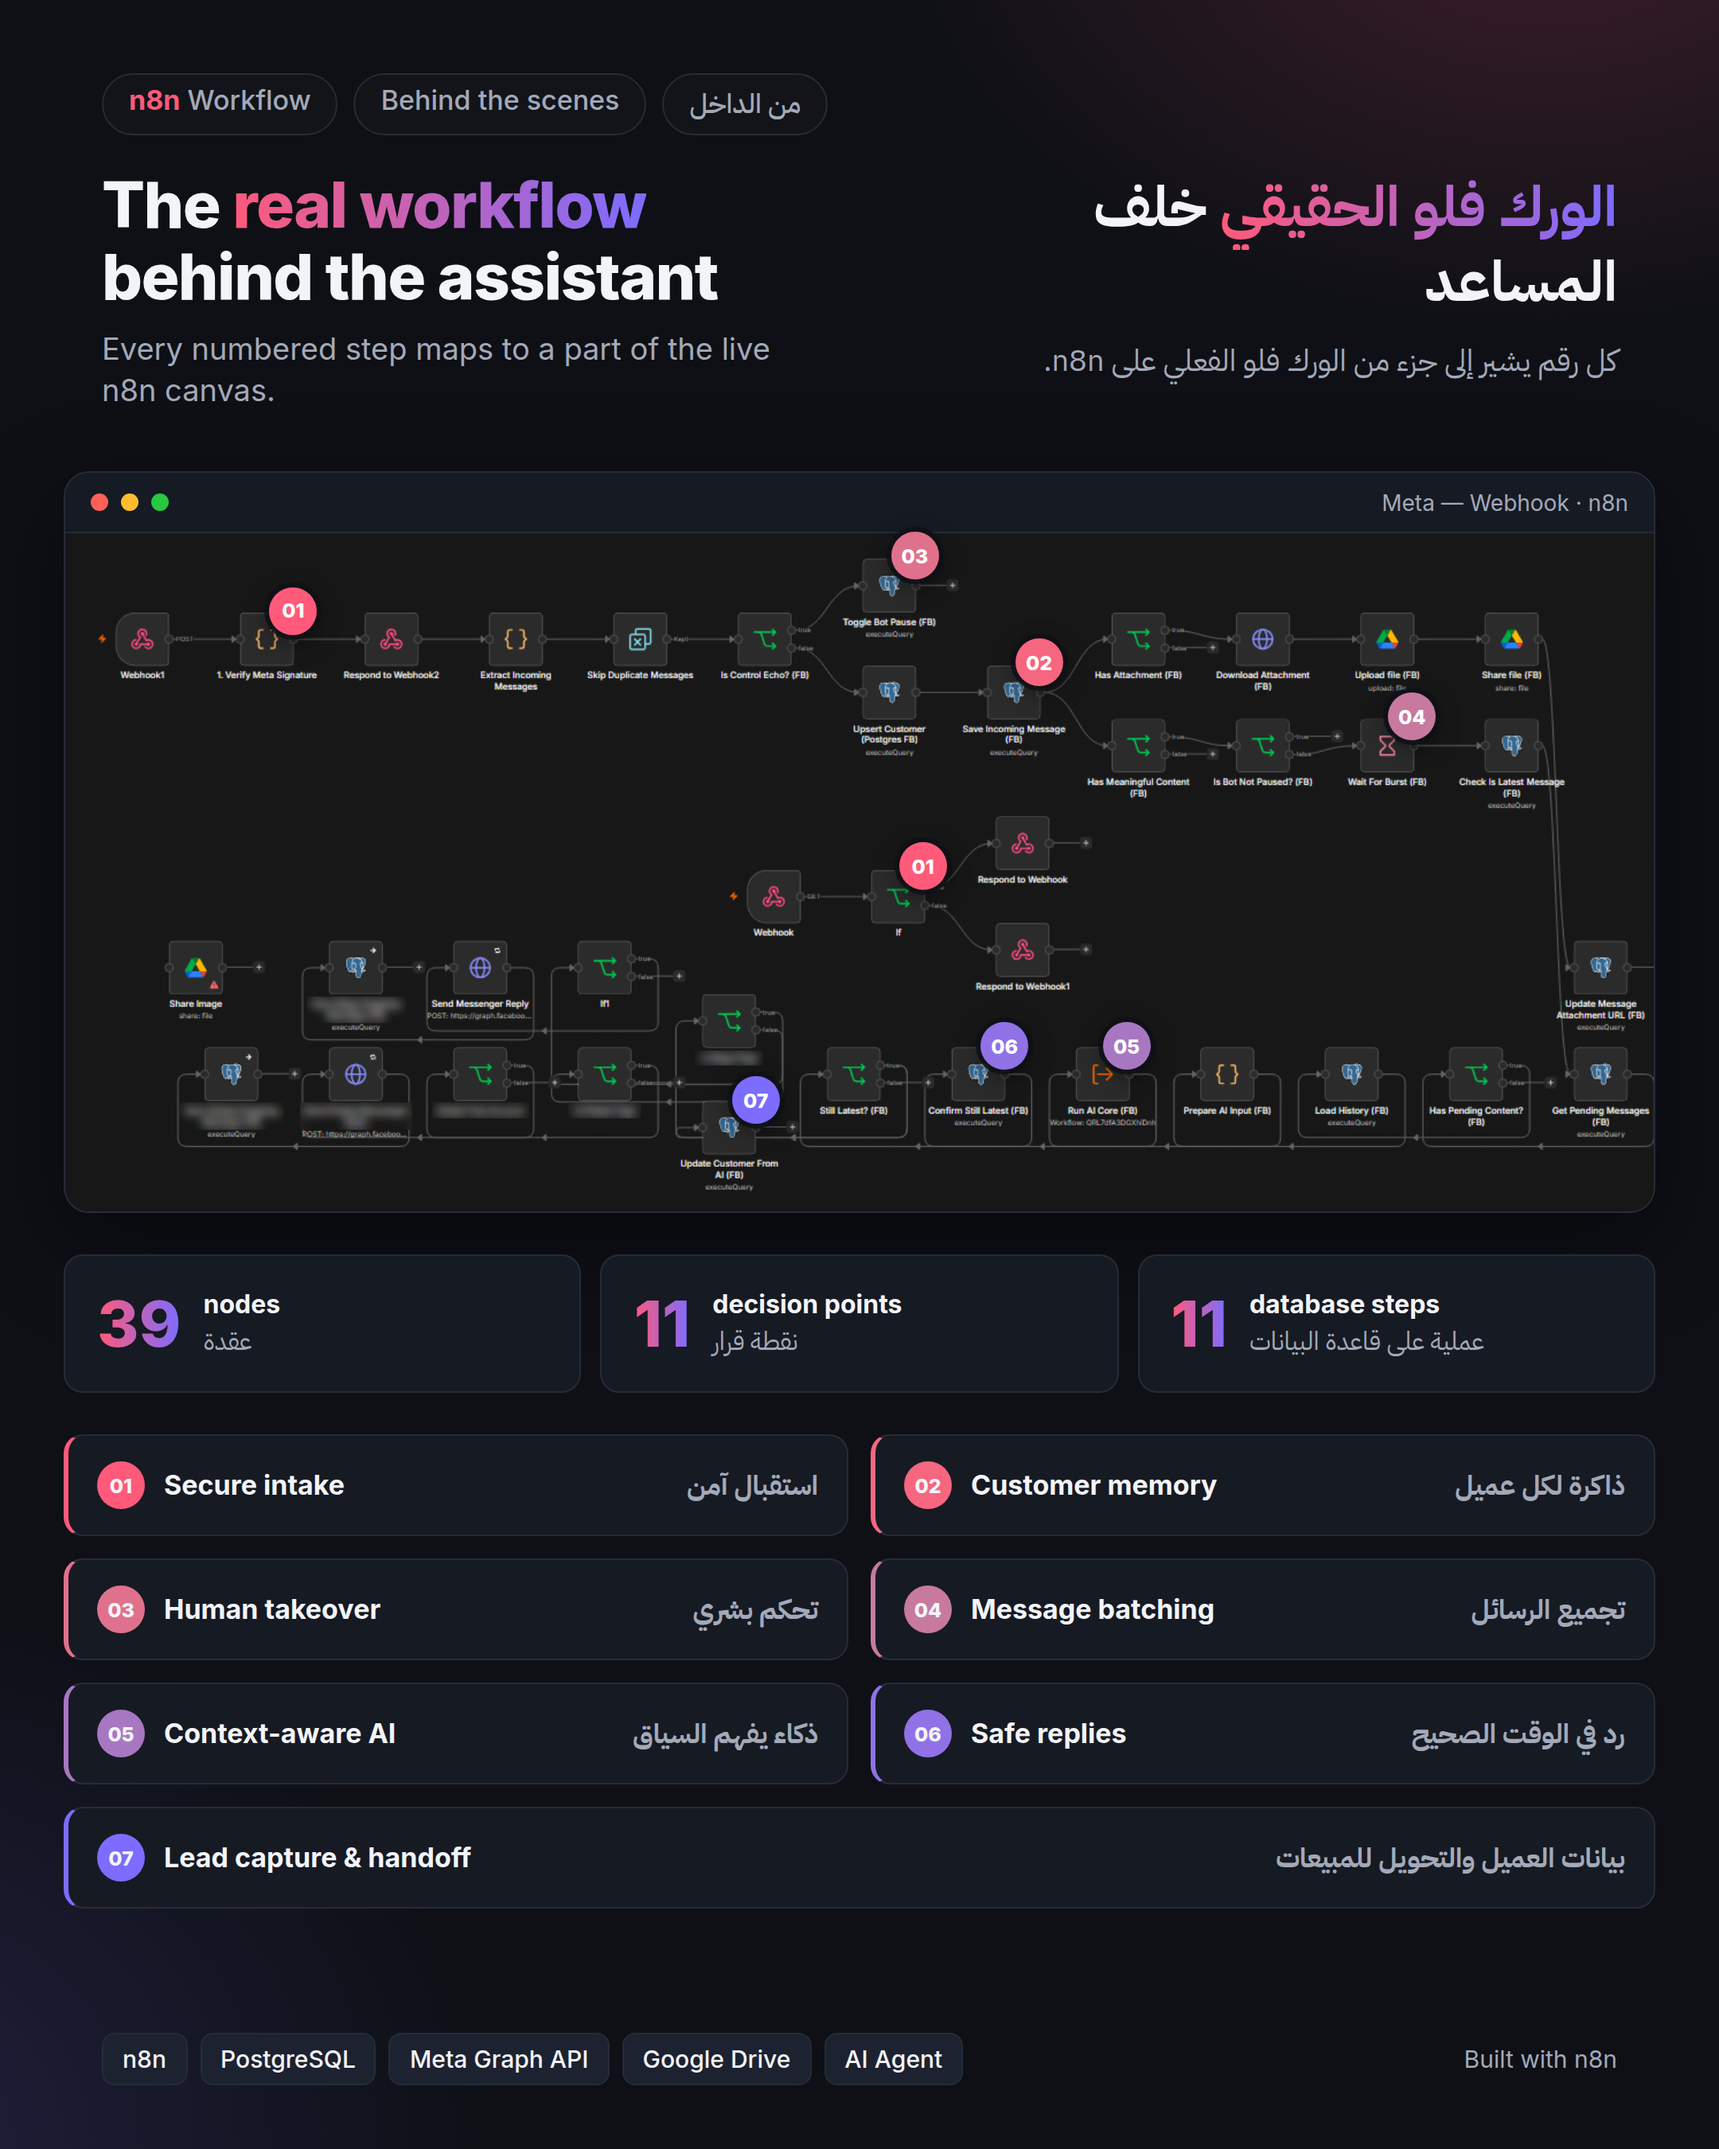
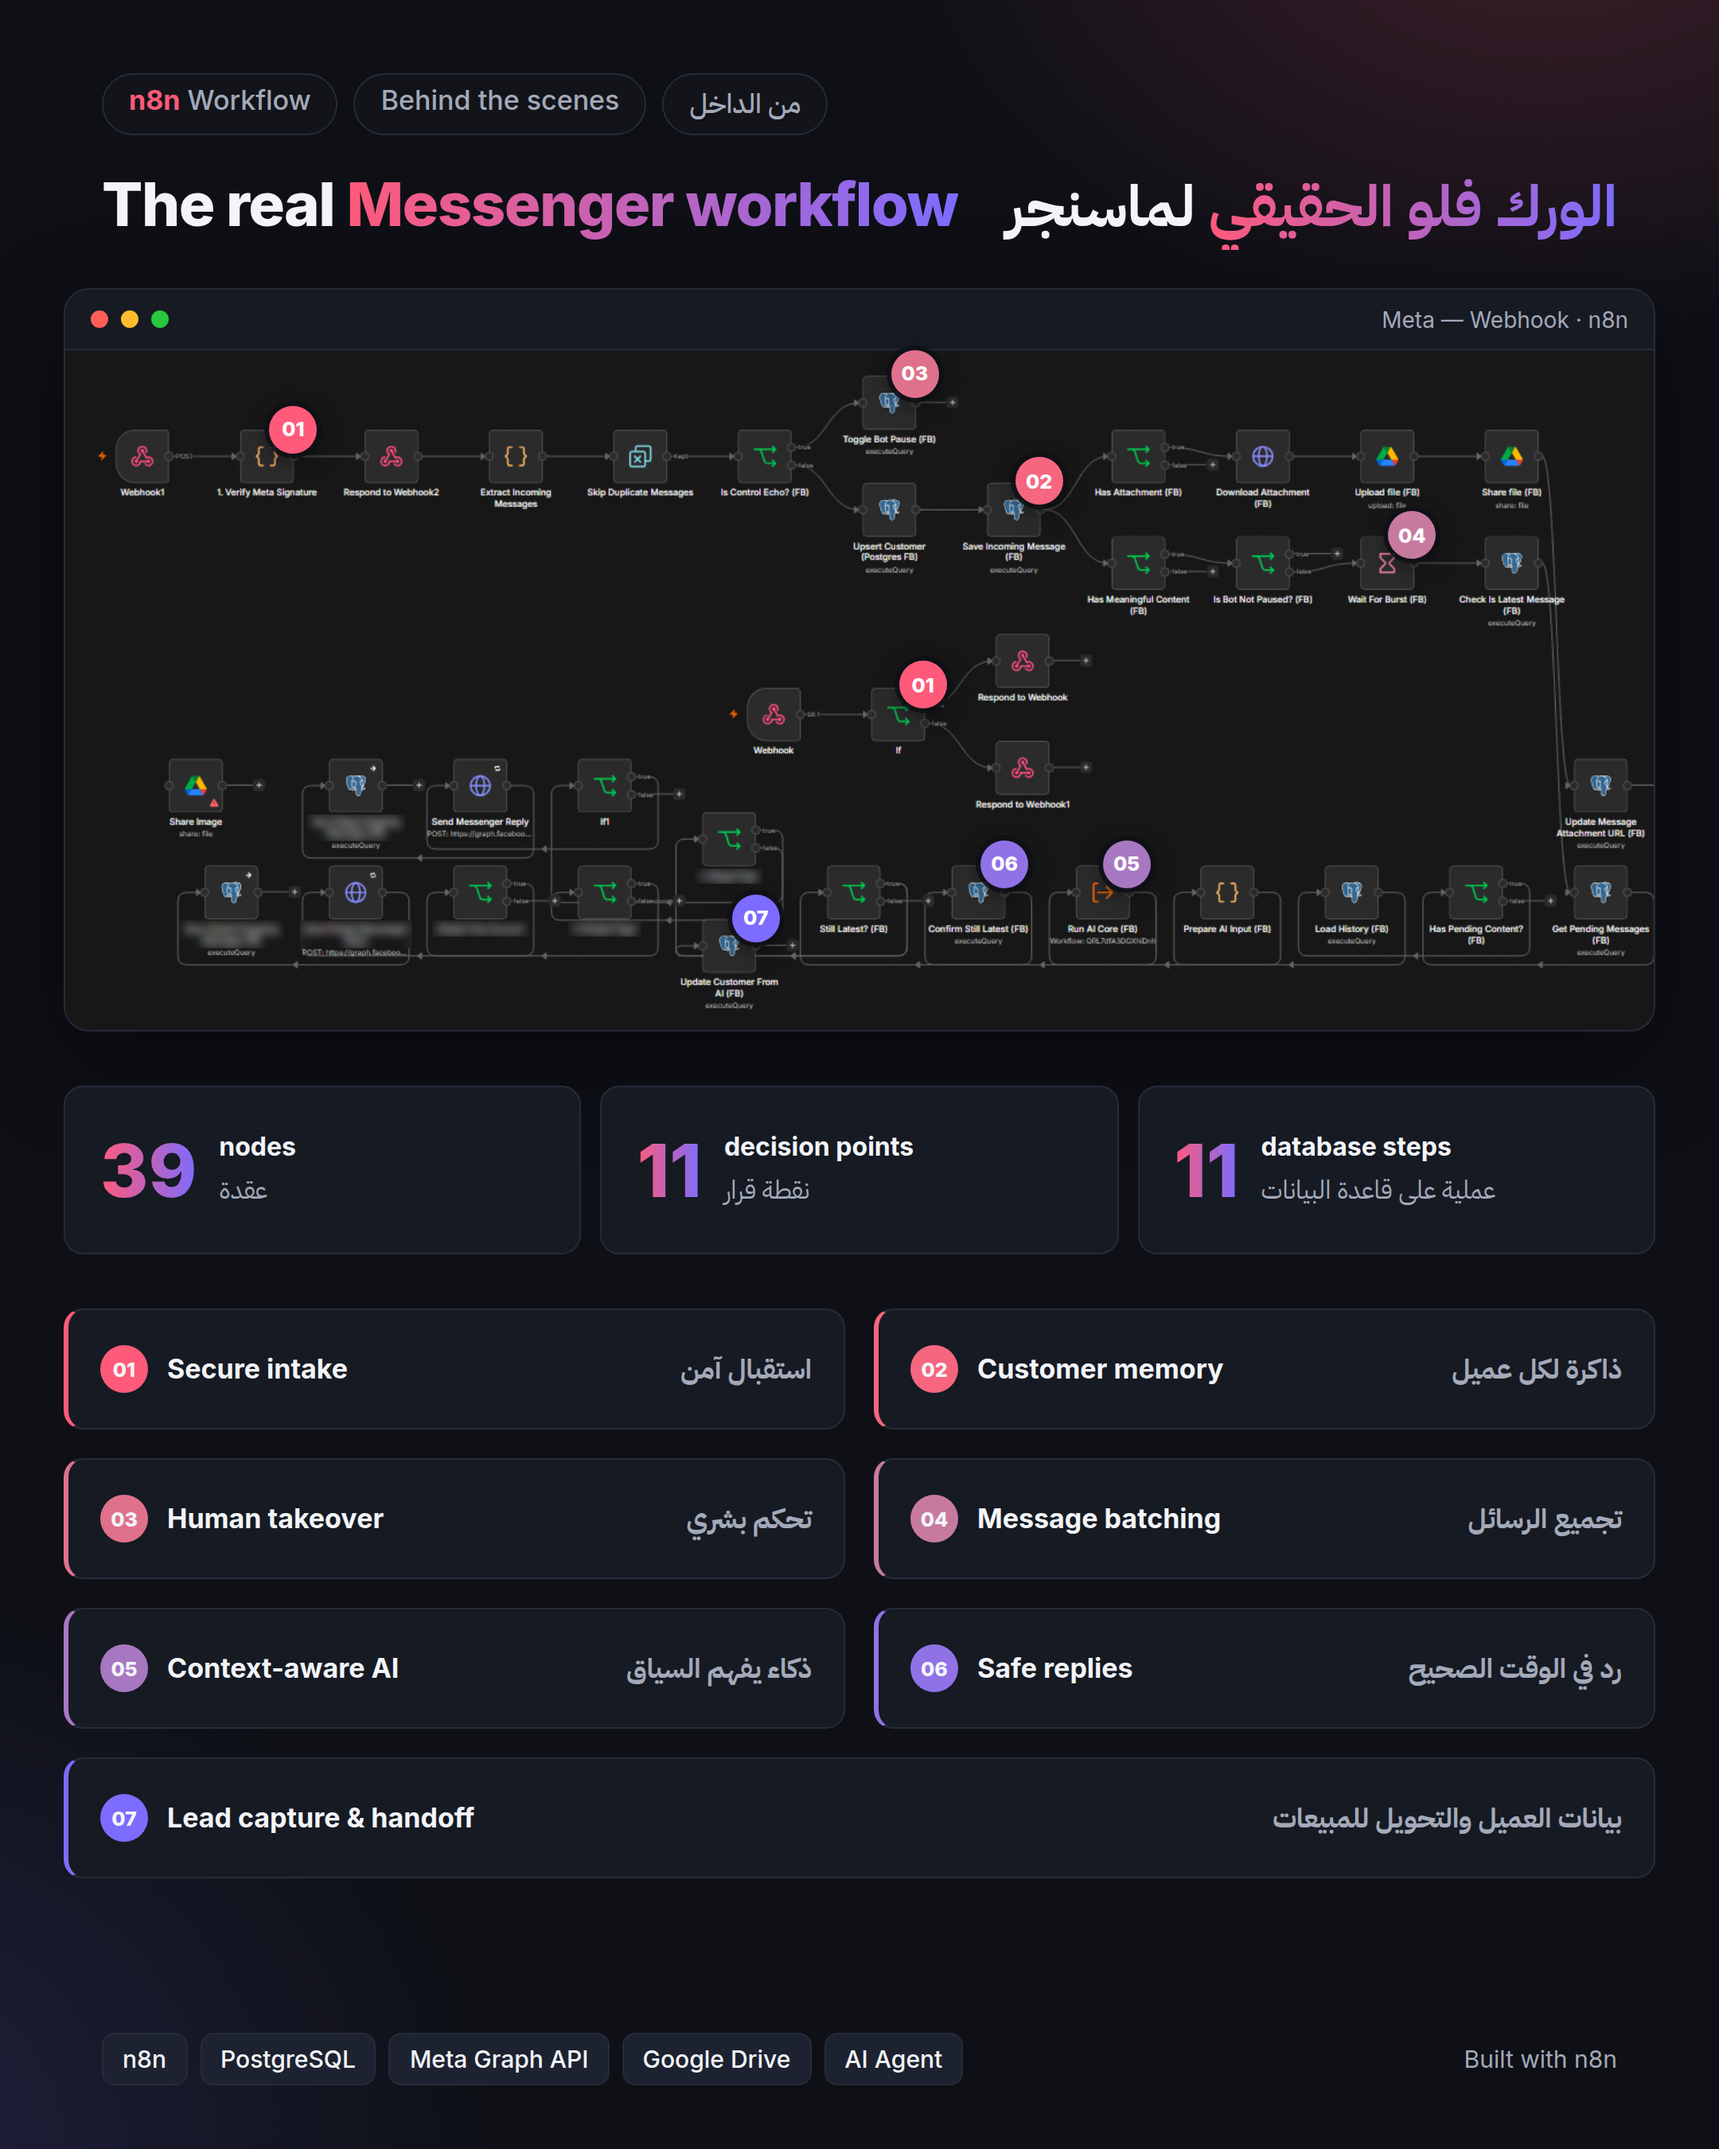
Match Messenger workflow image header to the Instagram layout
Claude-Session: https://claude.ai/code/session_012vB3nHyRhBYPVNiM4aM916

diff --git a/linkedin/workflow-real.html b/linkedin/workflow-real.html
@@ -9,26 +9,26 @@ body{width:1080px;height:1350px;overflow:hidden;background:var(--bg);color:var(-
 .chips{display:flex;gap:10px}
 .chip{font-size:17px;font-weight:500;color:var(--muted);border:1px solid var(--line);border-radius:999px;padding:6px 16px;background:rgba(255,255,255,.02)}
 .chip b{color:var(--accent);font-weight:700}
-.head{display:grid;grid-template-columns:1fr 1fr;gap:40px;margin-top:22px}
-h1{font-size:40px;line-height:1.12;font-weight:800;letter-spacing:-.02em}
+.head{display:flex;justify-content:space-between;align-items:baseline;margin-top:22px}
+h1{font-size:38px;line-height:1.12;font-weight:800;letter-spacing:-.02em}
 h1 em{font-style:normal;background:linear-gradient(90deg,var(--accent),var(--accent2));-webkit-background-clip:text;color:transparent}
-.head .ar h1{font-size:35px;line-height:1.35;font-weight:700;letter-spacing:0}
+.head .ar h1{font-size:36px;line-height:1.15;font-weight:700;letter-spacing:0}
 .sub{margin-top:10px;font-size:19px;line-height:1.4;color:var(--muted)}
 .head .ar .sub{line-height:1.6}
-.win{margin-top:36px;border:1px solid var(--line);border-radius:16px;overflow:hidden;background:#1a1a1a;box-shadow:0 20px 60px rgba(0,0,0,.45)}
+.win{margin-top:30px;border:1px solid var(--line);border-radius:16px;overflow:hidden;background:#1a1a1a;box-shadow:0 20px 60px rgba(0,0,0,.45)}
 .bar{height:38px;display:flex;align-items:center;gap:8px;padding:0 16px;background:var(--card);border-bottom:1px solid var(--line)}
 .dot{width:11px;height:11px;border-radius:50%}
 .bar .t{margin-left:auto;font-size:14px;color:var(--muted)}
 .shot{position:relative}
 .shot img{display:block;width:100%}
 .mk{position:absolute;transform:translate(-50%,-50%);width:30px;height:30px;border-radius:50%;background:var(--c);color:#fff;font-size:12.5px;font-weight:800;display:grid;place-items:center;box-shadow:0 0 0 3px rgba(14,16,22,.85),0 4px 14px rgba(0,0,0,.5)}
-.legend{margin-top:26px;display:grid;grid-template-columns:1fr 1fr;gap:14px}
-.li{display:flex;align-items:center;gap:12px;background:var(--card);border:1px solid var(--line);border-left:3px solid var(--c);border-radius:12px;padding:16px 18px}
+.legend{margin-top:34px;display:grid;grid-template-columns:1fr 1fr;gap:18px}
+.li{display:flex;align-items:center;gap:12px;background:var(--card);border:1px solid var(--line);border-left:3px solid var(--c);border-radius:12px;padding:22px 20px}
 .li .n{flex:none;width:30px;height:30px;border-radius:50%;background:var(--c);display:grid;place-items:center;font-size:12.5px;font-weight:800}
 .li .en{font-size:17px;font-weight:600}
 .li .ar{margin-left:auto;font-size:17px;font-weight:600;color:var(--muted)}
 .li:last-child{grid-column:1/-1}
-.stats{margin-top:26px;display:grid;grid-template-columns:repeat(3,1fr);gap:12px}.st{background:var(--card);border:1px solid var(--line);border-radius:12px;padding:18px 20px;display:grid;grid-template-columns:auto 1fr;column-gap:14px;align-items:center}.st b{grid-row:span 2;font-size:40px;font-weight:800;background:linear-gradient(90deg,var(--accent),var(--accent2));-webkit-background-clip:text;color:transparent}.st .en{font-size:16px;font-weight:600}.st .ar{font-size:16px;color:var(--muted);text-align:left;direction:rtl;justify-self:start}
+.stats{margin-top:34px;display:grid;grid-template-columns:repeat(3,1fr);gap:12px}.st{background:var(--card);border:1px solid var(--line);border-radius:12px;padding:24px 22px;display:grid;grid-template-columns:auto 1fr;column-gap:14px;align-items:center}.st b{grid-row:span 2;font-size:46px;font-weight:800;background:linear-gradient(90deg,var(--accent),var(--accent2));-webkit-background-clip:text;color:transparent}.st .en{font-size:16px;font-weight:600}.st .ar{font-size:16px;color:var(--muted);text-align:left;direction:rtl;justify-self:start}
 .foot{position:absolute;left:64px;right:64px;bottom:40px;display:flex;justify-content:space-between;align-items:center}
 .stack{display:flex;gap:8px}
 .stack span{font-size:15px;font-weight:500;background:#1d2230;border:1px solid var(--line);border-radius:8px;padding:6px 12px}
@@ -36,8 +36,7 @@ h1 em{font-style:normal;background:linear-gradient(90deg,var(--accent),var(--acc
 </style></head><body><div class="glow"></div><div class="wrap">
 <div class="inner">
 <div class="chips"><span class="chip"><b>n8n</b> Workflow</span><span class="chip">Behind the scenes</span><span class="chip ar">من الداخل</span></div>
-<div class="head"><div><h1>The <em>real workflow</em> behind the assistant</h1><p class="sub">Every numbered step maps to a part of the live n8n canvas.</p></div>
-<div class="ar"><h1><em>الورك فلو الحقيقي</em> خلف المساعد</h1><p class="sub">كل رقم يشير إلى جزء من الورك فلو الفعلي على n8n.</p></div></div>
+<div class="head"><h1>The real <em>Messenger workflow</em></h1><div class="ar"><h1><em>الورك فلو الحقيقي</em> لماسنجر</h1></div></div>
 </div>
 <div class="win"><div class="bar"><span class="dot" style="background:#ff5f57"></span><span class="dot" style="background:#febc2e"></span><span class="dot" style="background:#28c840"></span><span class="t">Meta — Webhook · n8n</span></div>
 <div class="shot"><img src="wf_blur_t.png">
